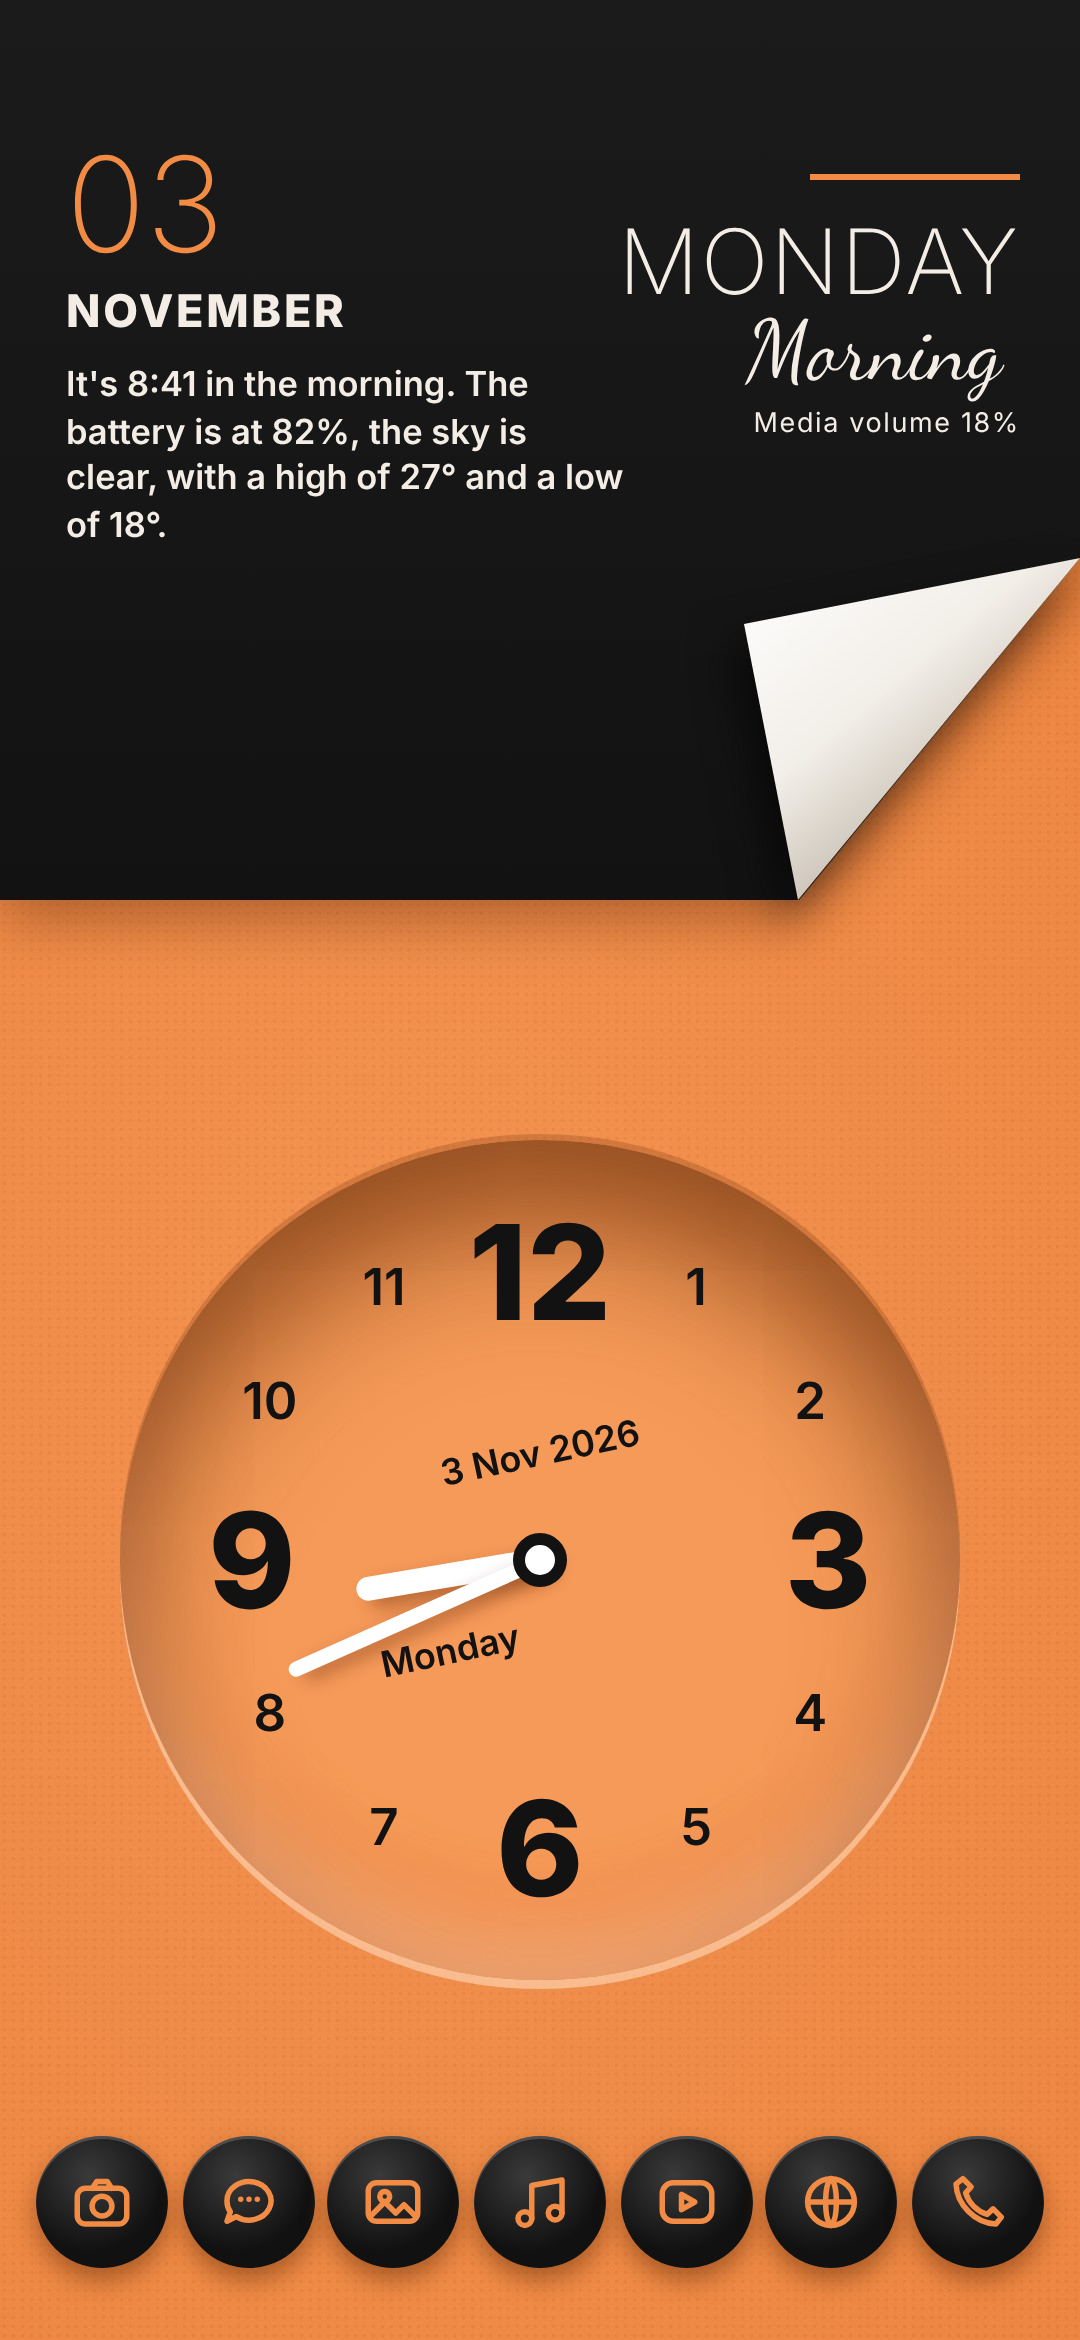
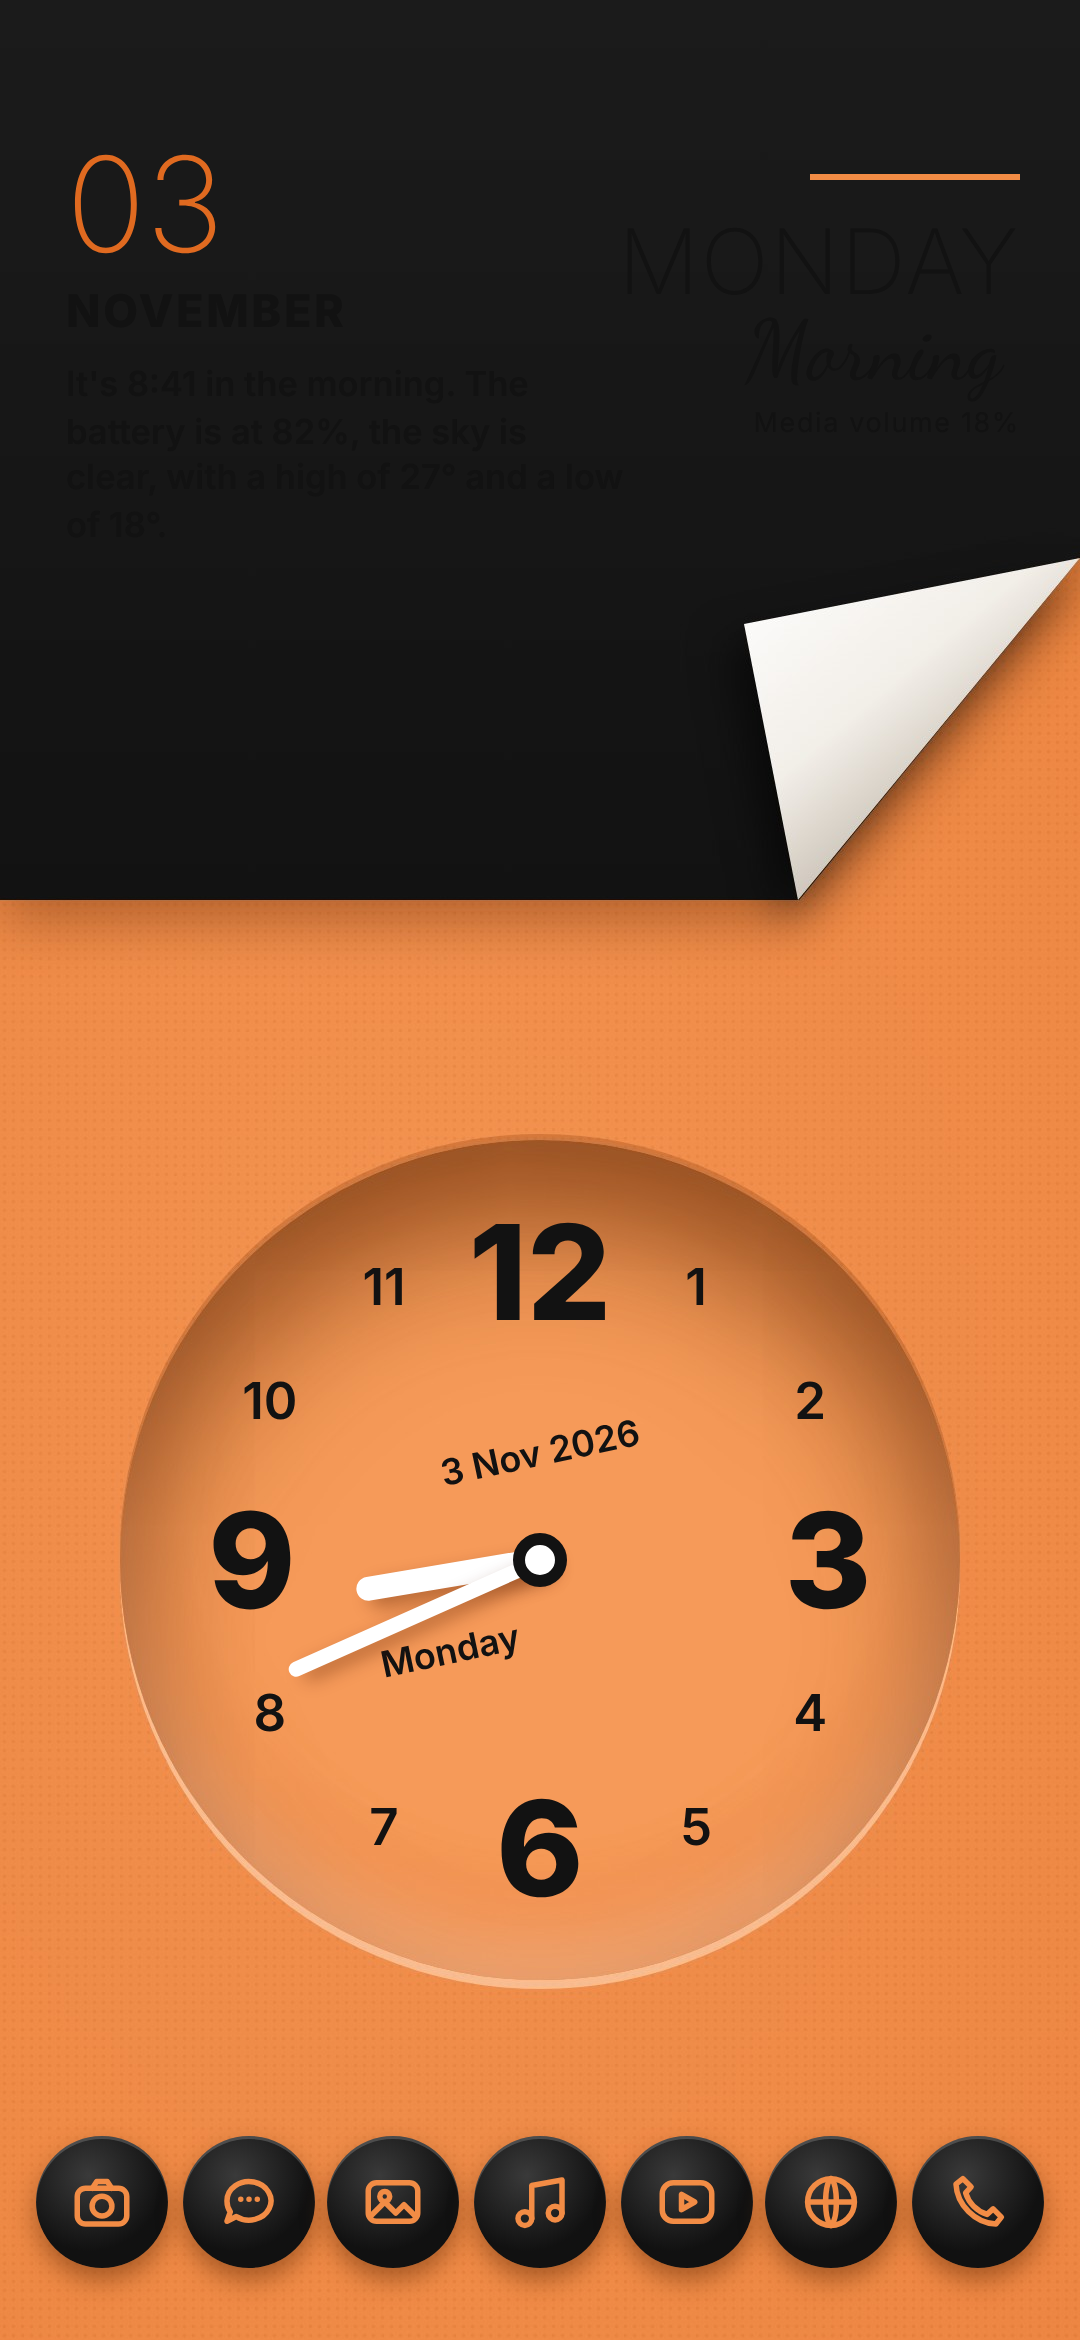
Tune themes for engine 1 after rendering them in Griha
Rendered in Griha itself, light and dark: Pastel Neo's field becomes a
pressed-in well and only primary buttons keep the bold outline, so
search boxes and radio buttons stay calm. Tangerine Peel's panel is now
cream with a black fold and Teal Fold's deep teal with a cream fold,
because Griha writes page text in one ink colour; artwork updated to
match. Cards in both suit that ink.

Claude-Session: https://claude.ai/code/session_01NQgZgL1TTLbB3Q6QhAGinP

diff --git a/themes/tangerine-peel/art/elements.html b/themes/tangerine-peel/art/elements.html
@@ -7,7 +7,7 @@ h1{font-size:34px;margin:0;font-weight:800;color:#121212}h2{font-size:12px;lette
 .row{display:flex;gap:26px;align-items:center}
 .blk{background:linear-gradient(180deg,#1C1C1C,#111);color:#F4EDE6;border-radius:16px;box-shadow:0 8px 18px rgba(122,58,16,.5),inset 0 1px 0 rgba(255,255,255,.1)}
 </style></head><body>
-<h1>Tangerine Peel</h1><div style="color:#5B3417;font-weight:600;margin-top:4px">Orange paper over black, a curled corner and a deep well</div>
+<h1>Tangerine Peel</h1><div style="color:#5B3417;font-weight:600;margin-top:4px">Orange paper under a cream panel, a black fold and a deep well</div>
 <h2>COLOURS</h2>
 <div class="row">
  <div><div style="width:62px;height:62px;border-radius:14px;background:#F28C45;box-shadow:inset 0 0 0 2px rgba(0,0,0,.12)"></div><div class="cap">Orange</div></div>
@@ -18,9 +18,9 @@ h1{font-size:34px;margin:0;font-weight:800;color:#121212}h2{font-size:12px;lette
 <h2>PANEL AND PEEL</h2>
 <div style="display:flex;gap:24px;align-items:center">
  <div style="position:relative;width:360px;height:220px;border-radius:18px;overflow:hidden;background:url(../wallpapers/home.jpg) 0 -96px/360px 780px">
-  <div style="position:absolute;left:20px;top:14px;color:#F4EDE6"><div style="font-size:30px;font-weight:200;color:#F28C45">03</div><div style="font-weight:800">NOVEMBER</div></div>
+  <div style="position:absolute;left:20px;top:14px;color:#121212"><div style="font-size:30px;font-weight:200;color:#E06A20">03</div><div style="font-weight:800">NOVEMBER</div></div>
  </div>
- <div style="width:250px;color:#3E220E;font-weight:600;font-size:14px;line-height:1.45">A black panel lies over the orange page. Its corner folds back along a diagonal, showing paper on the back and orange underneath, with a soft shadow on the panel.</div>
+ <div style="width:250px;color:#3E220E;font-weight:600;font-size:14px;line-height:1.45">A cream panel lies over the orange page. Its corner folds back along a diagonal, showing black on the back and orange underneath. Text stays black on panel and page alike.</div>
 </div>
 <h2>WELL, KEYS AND BADGES</h2>
 <div class="row" style="align-items:flex-start">

diff --git a/themes/teal-fold/art/preview.html b/themes/teal-fold/art/preview.html
@@ -3,13 +3,13 @@
 html,body{width:360px;height:780px;overflow:hidden;background:url(../wallpapers/home.jpg) center/cover}
 .n{position:absolute;color:#F3EDE2;transform:translate(-50%,-50%)}
 </style></head><body>
-<div style="position:absolute;right:22px;top:46px;color:#1C2B2A;text-align:right">
- <div style="font-size:44px;font-weight:200;color:#13615F;line-height:1">03</div>
+<div style="position:absolute;right:22px;top:46px;color:#F3EDE2;text-align:right">
+ <div style="font-size:44px;font-weight:200;color:#E3B25B;line-height:1">03</div>
  <div style="font-weight:800;font-size:15px;letter-spacing:.06em;margin-top:4px">NOVEMBER</div>
  <div style="font-weight:600;font-size:11.5px;line-height:1.35;margin:8px 0 0 auto;width:196px">It's 8:41 in the morning. Battery at 82%, clear sky, a high of 27° and a low of 18°.</div></div>
-<div style="position:absolute;left:22px;top:58px;color:#1C2B2A">
- <div style="width:70px;height:2px;background:#13615F;margin-bottom:10px"></div>
- <div style="font-size:30px;font-weight:200">MONDAY</div><div style="font-size:12px;font-weight:700;letter-spacing:.2em;color:#13615F">MORNING</div></div>
+<div style="position:absolute;left:22px;top:58px;color:#F3EDE2">
+ <div style="width:70px;height:2px;background:#E3B25B;margin-bottom:10px"></div>
+ <div style="font-size:30px;font-weight:200">MONDAY</div><div style="font-size:12px;font-weight:700;letter-spacing:.2em;color:#E3B25B">MORNING</div></div>
 <div id="face" style="position:absolute;left:40px;top:380px;width:280px;height:280px"></div>
 <div style="position:absolute;left:0;right:0;bottom:24px;display:flex;justify-content:space-around;padding:0 10px">
  <div class="badge"><span class="ico" data-icon="camera" data-stroke="#13615F"></span></div><div class="badge"><span class="ico" data-icon="chat" data-stroke="#13615F"></span></div>

diff --git a/themes/teal-fold/art/style.css b/themes/teal-fold/art/style.css
@@ -1,8 +1,8 @@
 :root{--teal:#13615F;--cream:#F3EDE2;--ink:#F3EDE2;--muted:#A9CFC9;--gold:#E3B25B;--dark:#1C2B2A}
 *{box-sizing:border-box}body{margin:0;font-family:Inter,sans-serif;color:var(--ink)}
-.panel{position:absolute;left:0;right:0;top:0;height:300px;background:linear-gradient(180deg,#F7F2E9,#EAE3D6);clip-path:polygon(0 0,100% 0,100% 100%,94px 100%,0 186px)}
+.panel{position:absolute;left:0;right:0;top:0;height:300px;background:linear-gradient(180deg,#0D4A48,#083634);clip-path:polygon(0 0,100% 0,100% 100%,94px 100%,0 186px)}
 .flapwrap{position:absolute;left:0;top:0;width:360px;height:320px;filter:drop-shadow(5px 7px 7px rgba(3,31,30,.5))}
-.flap{position:absolute;inset:0;clip-path:polygon(0 186px,94px 300px,112px 208px);background:linear-gradient(220deg,#2A8B87 0%,#17716E 40%,#0E504E 62%,#08393A 72%) 0 186px/112px 114px no-repeat}
+.flap{position:absolute;inset:0;clip-path:polygon(0 186px,94px 300px,112px 208px);background:linear-gradient(220deg,#FFFBF3 0%,#F3EDE2 40%,#D6CDBE 62%,#B3A994 72%) 0 186px/112px 114px no-repeat}
 .well{position:absolute;border-radius:50%;background:radial-gradient(circle at 50% 42%,#1A7470 0 55%,#145F5C 75%,#0D4A48 100%);
  box-shadow:inset 0 26px 46px rgba(3,31,30,.8),inset 0 -14px 26px rgba(127,207,198,.45),0 -2px 0 rgba(3,31,30,.3),0 3px 0 rgba(127,207,198,.4)}
 .badge{width:44px;height:44px;border-radius:50%;background:radial-gradient(circle at 40% 30%,#FFFBF3,#E6DECF 62%);box-shadow:0 4px 8px rgba(3,31,30,.6),inset 0 -2px 3px rgba(0,0,0,.1);display:flex;align-items:center;justify-content:center}

diff --git a/themes/tangerine-peel/art/style.css b/themes/tangerine-peel/art/style.css
@@ -2,14 +2,14 @@
 :root{--orange:#F28C45;--black:#161616;--paper:#F7F4EF}
 *{box-sizing:border-box}
 body{margin:0;font-family:Inter,sans-serif}
-.panel{position:absolute;left:0;right:0;top:0;height:300px;background:linear-gradient(180deg,#1B1B1B,#121212);
+.panel{position:absolute;left:0;right:0;top:0;height:300px;background:linear-gradient(180deg,#FBF9F5,#EFEAE2);
  clip-path:polygon(0 0,100% 0,100% 62%,74% 100%,0 100%)}
 .curl{position:absolute;width:124px;height:122px;right:0;top:186px;
  background:linear-gradient(225deg,transparent 49.5%,#D9D3CA 50%,#FFFFFF 62%,#ECE6DD 76%,#BDB5AA 100%);
  clip-path:polygon(100% 0,100% 0,0 100%,100% 100%);transform-origin:100% 100%;filter:drop-shadow(-6px 6px 8px rgba(80,30,0,.45))}
 .flapwrap{position:absolute;left:0;top:0;width:360px;height:320px;filter:drop-shadow(-5px 7px 7px rgba(0,0,0,.55))}
 .flap{position:absolute;inset:0;clip-path:polygon(360px 186px,266px 300px,248px 208px);
- background:linear-gradient(140deg,#FFFFFF 0%,#F2EEE8 40%,#CFC7BC 62%,#9E958A 70%) 248px 186px/112px 114px no-repeat}
+ background:linear-gradient(140deg,#4A4A4A 0%,#2A2A2A 40%,#151515 62%,#0A0A0A 70%) 248px 186px/112px 114px no-repeat}
 .curl{display:none}
 .under{position:absolute;right:0;top:186px;width:94px;height:114px;background:var(--paper);clip-path:polygon(100% 0,100% 100%,0 100%);opacity:0}
 .well{position:absolute;border-radius:50%;background:radial-gradient(circle at 50% 42%,#F59A58 0 55%,#EE8440 75%,#DC6F2B 100%);

diff --git a/themes/tangerine-peel/art/preview.html b/themes/tangerine-peel/art/preview.html
@@ -3,12 +3,12 @@
 html,body{width:360px;height:780px;overflow:hidden;background:url(../wallpapers/home.jpg) center/cover}
 .n{position:absolute;font-weight:800;color:#121212;transform:translate(-50%,-50%)}
 </style></head><body>
-<div style="position:absolute;left:22px;top:46px;color:#F4EDE6">
- <div style="font-size:44px;font-weight:200;color:#F28C45;line-height:1">03</div>
+<div style="position:absolute;left:22px;top:46px;color:#121212">
+ <div style="font-size:44px;font-weight:200;color:#E06A20;line-height:1">03</div>
  <div style="font-weight:800;font-size:15px;letter-spacing:.06em;margin-top:4px">NOVEMBER</div>
  <div style="font-weight:600;font-size:11.5px;line-height:1.35;margin-top:8px;width:186px">It's 8:41 in the morning. The battery is at 82%, the sky is clear, with a high of 27° and a low of 18°.</div>
 </div>
-<div style="position:absolute;right:20px;top:58px;text-align:right;color:#F4EDE6">
+<div style="position:absolute;right:20px;top:58px;text-align:right;color:#121212">
  <div style="width:70px;height:2px;background:#F28C45;margin:0 0 10px auto"></div>
  <div style="font-size:30px;font-weight:200;letter-spacing:.02em">MONDAY</div>
  <div style="font-family:Script;font-size:28px;margin-top:-6px;margin-right:6px">Morning</div>

diff --git a/themes/teal-fold/art/elements.html b/themes/teal-fold/art/elements.html
@@ -1,5 +1,5 @@
 <!doctype html><html><head><meta charset="utf-8"><meta name="out" content="elements.png,720,880,2,png">
 <link rel="stylesheet" href="style.css"><script src="../../../tools/art/common.js"></script>
-<script>window.SHEET={name:'Teal Fold',tagline:'Teal paper under a cream panel folded like origami',
+<script>window.SHEET={name:'Teal Fold',tagline:'Teal paper under a deep panel folded to show cream',
 swatches:[['#13615F','Teal'],['#F3EDE2','Cream'],['#E3B25B','Gold'],['#0C4644','Deep teal'],['#A9CFC9','Muted'],['#1C2B2A','Ink']],chip:'Cream chip',cardNote:'Cream card on teal paper'}</script>
 <script src="../../../tools/art/elements.js"></script></head><body class="sheet"></body></html>
